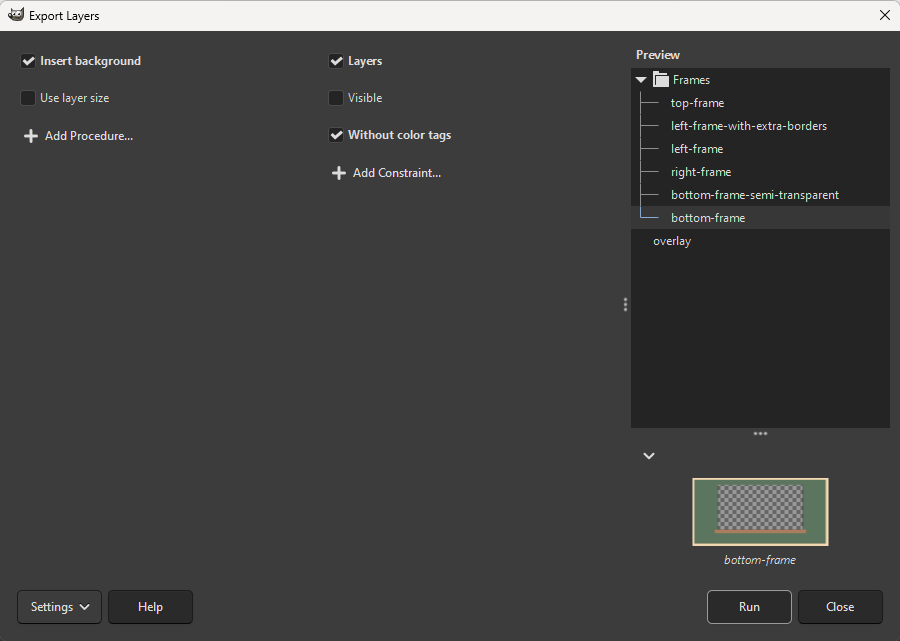
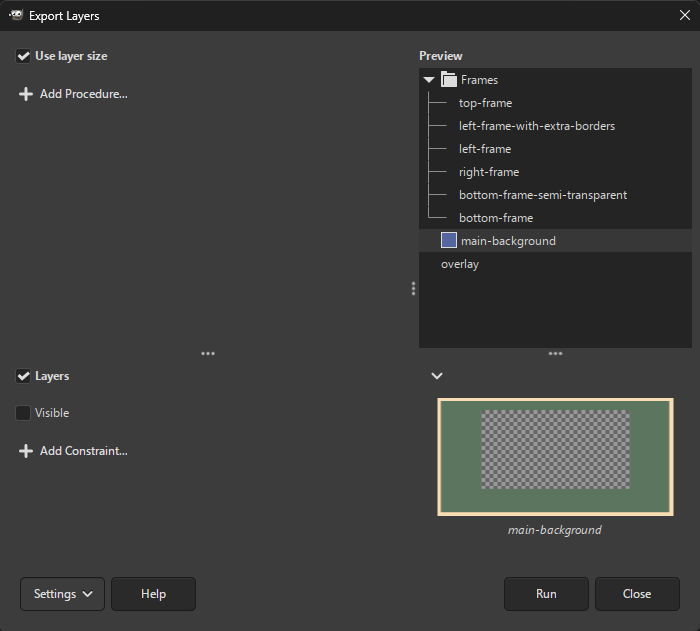
Update screenshots, remove the customization screenshot

diff --git a/dev/make_screenshots.py b/dev/make_screenshots.py
@@ -31,9 +31,6 @@ PLUGIN_DIRPATH = os.path.join(ROOT_DIRPATH, 'batcher')
 sys.path.append(PLUGIN_DIRPATH)
 
 
-from batcher.src import actions
-from batcher.src import builtin_constraints
-from batcher.src import builtin_procedures
 from batcher.src import plugin_settings
 from batcher.src.gui import main as gui_main
 
@@ -47,7 +44,6 @@ OUTPUT_DIRPATH = os.path.join(
 
 SCREENSHOTS_DIRPATH = os.path.join(ROOT_DIRPATH, 'docs', 'images')
 SCREENSHOT_DIALOG_EXPORT_LAYERS_FILENAME = 'screenshot_dialog_export_layers.png'
-SCREENSHOT_DIALOG_CUSTOMIZATION_FILENAME = 'screenshot_dialog_customization.png'
 SCREENSHOT_DIALOG_EDIT_LAYERS_FILENAME = 'screenshot_dialog_edit_layers.png'
 
 
@@ -86,34 +82,6 @@ def take_screenshots(gui, dialog, settings):
   take_and_process_screenshot(
     SCREENSHOTS_DIRPATH,
     SCREENSHOT_DIALOG_EXPORT_LAYERS_FILENAME,
-    settings,
-    decoration_offsets,
-  )
-  
-  actions.add(
-    settings['main/procedures'],
-    builtin_procedures.BUILTIN_PROCEDURES['insert_background'])
-  actions.reorder(
-    settings['main/procedures'], 'insert_background', 0)
-  settings['main/procedures/use_layer_size/enabled'].set_value(False)
-  
-  actions.add(
-    settings['main/constraints'],
-    builtin_constraints.BUILTIN_CONSTRAINTS['without_color_tags'])
-  
-  while Gtk.events_pending():
-    Gtk.main_iteration()
-  
-  gui.name_preview.set_selected_items({gui.name_preview.batcher.item_tree['bottom-frame'].raw})
-  
-  dialog.set_focus(None)
-  
-  while Gtk.events_pending():
-    Gtk.main_iteration()
-  
-  take_and_process_screenshot(
-    SCREENSHOTS_DIRPATH,
-    SCREENSHOT_DIALOG_CUSTOMIZATION_FILENAME,
     settings,
     decoration_offsets,
   )

diff --git a/docs/sections/Customization.md b/docs/sections/Customization.md
@@ -7,8 +7,6 @@ Beyond the basic features, Batcher allows you to:
 
 As the amount of customization may be overwhelming at first, you may want to take a look at a few [examples](#examples) below.
 
-![Dialog of Export Layers with additional customization](../images/screenshot_dialog_customization.png)
-
 
 ## Examples
 
